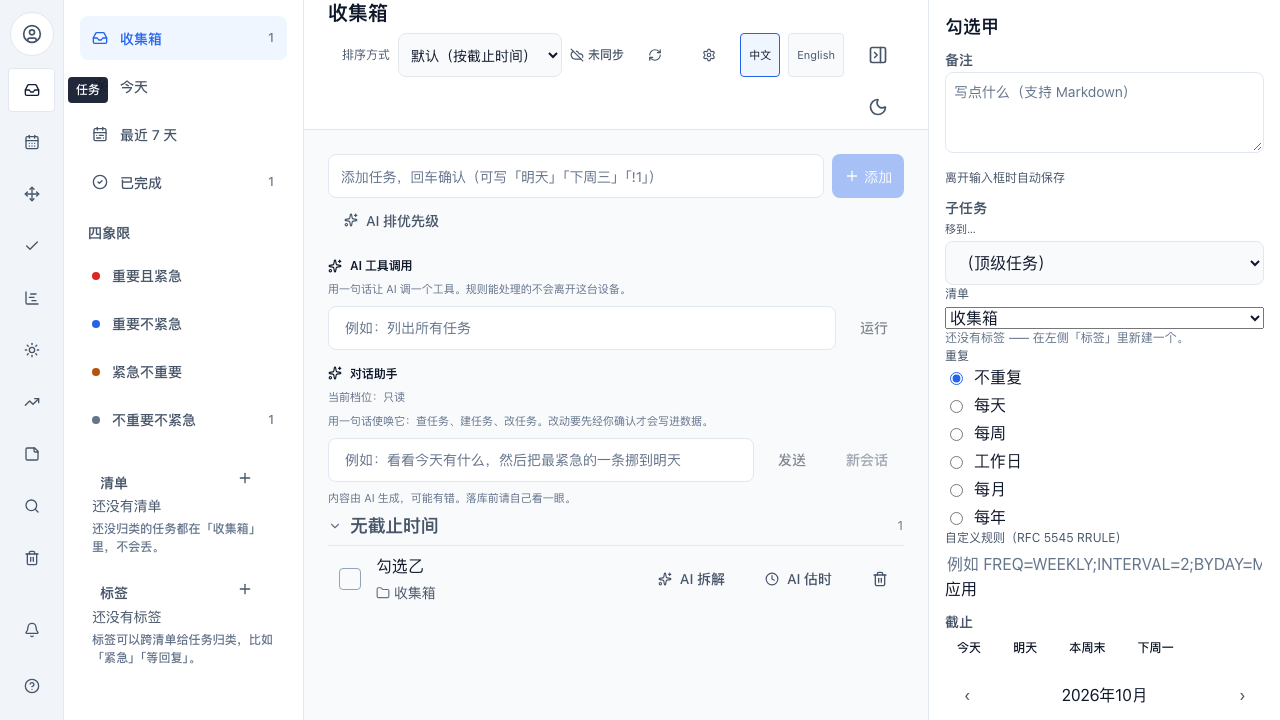
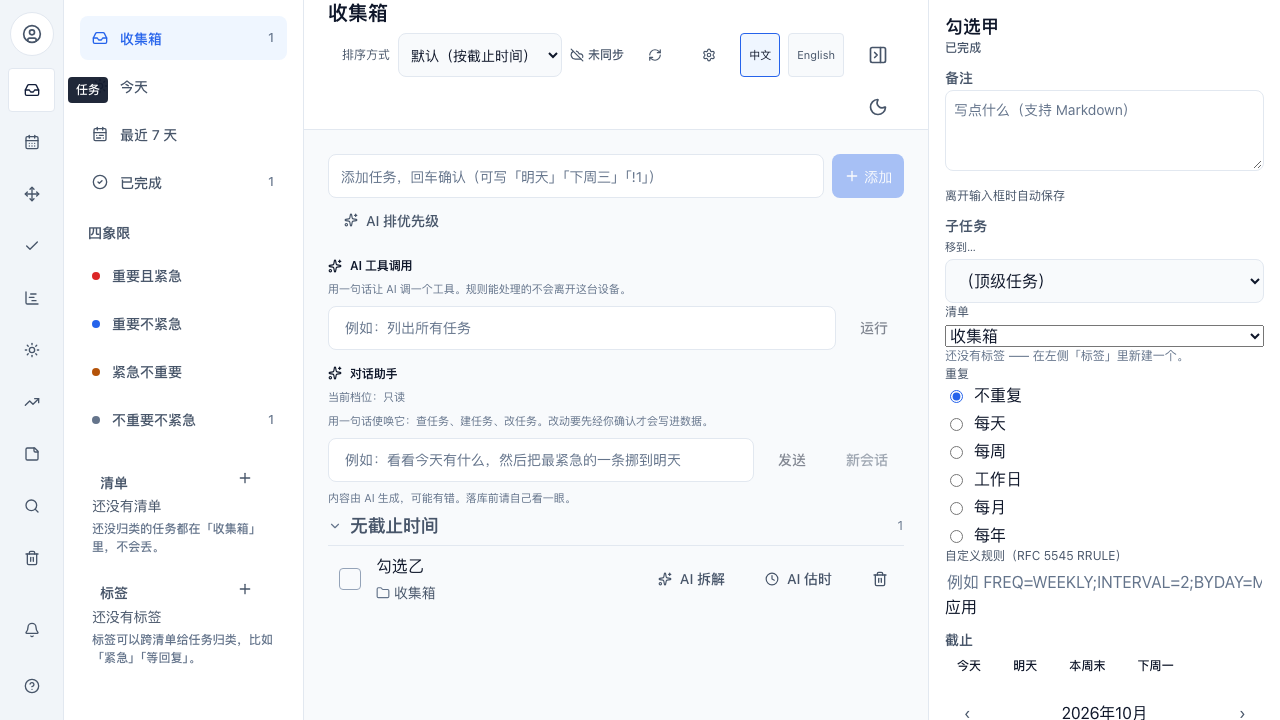
feat(§8.150): 完成的那条已离开列表，栏里那格现在自己写明「已完成」
§8.148 看图照出这一格读起来像"选中了一条看不见的任务"。当时我把它写成"要拍的是面单跟不跟着
可见集走"——现量之后那句话不成立：回落只认"实体还在不在"是**有判据的**（selection.spec.ts:170），
认可见集会让用户切一下筛选就把正在编辑的那条判成不存在、面板自己关掉。所以本单不动回落语义，
改为让那一格自己说清状态：completedAt 存在 ⇒ 标题下面一句只读的「已完成」。

⚠ 它不是第二颗编辑器（没有 onClick、不是 button）——完成态的编辑器仍是行尾那颗复选框。
第一版借用了区块头那一档（group-label），看图时它和「备注」「子任务」一模一样，会被读成
"一个叫已完成的区块"；改走辅助档 caption（xs + medium，三个属性都与区块头不同）。

判据 4 条 jsdom（36→40）+ K14 追加一句；臂台 Z1/Z2 两臂 RIG_RESULT=2/2、BACK_TO_CLEAN=true。
🔴 臂号第一版叫 S1/S2，与子任务那族撞号——`S1 S2` 一次匹配上四臂、红集是混的，而臂台不为撞号报错。
词条 task.pane.completed 中英各一条（2873 = 2873）。整条电池 36 步 ALL_GREEN。

diff --git a/apps/web/tests/task-detail-card.spec.tsx b/apps/web/tests/task-detail-card.spec.tsx
@@ -864,3 +864,59 @@ describe('清单 + 标签这一字段此刻归谁（§8.147）', () => {
     ).toBe(false);
   });
 });
+
+describe('完成态在栏里那句话（§8.150）', () => {
+  const paneBox = () => document.querySelector<HTMLElement>('[data-testid="task-pane"]');
+
+  it('🔴 勾选完成 ⇒ 栏里写明「已完成」（不是只让那一行从列表里消失）', async () => {
+    const id = await addTask('完成态甲');
+    selection.select('task', id);
+    mount();
+    await act(async () => {
+      await useTaskStore.getState().toggleComplete(id);
+    });
+    const box = paneBox();
+    if (box === null) throw new Error('栏里没画面单 ⇒ 这条判据在空转');
+    expect(box.textContent, '完成之后那一格不写状态，读起来像一条还没做的任务').toContain(
+      zhCN['task.pane.completed'],
+    );
+  });
+
+  it('没完成的那条不许出现那句话（这一格不许自己说完成）', async () => {
+    const id = await addTask('未态乙');
+    selection.select('task', id);
+    mount();
+    const box = paneBox();
+    if (box === null) throw new Error('栏里没画面单 ⇒ 这条判据在空转');
+    expect(box.textContent).not.toContain(zhCN['task.pane.completed']);
+  });
+
+  it('🔴 那句话**不是第二颗编辑器**：它不是按钮、也不套在按钮里', async () => {
+    const id = await addTask('编辑器归属丙');
+    selection.select('task', id);
+    mount();
+    await act(async () => {
+      await useTaskStore.getState().toggleComplete(id);
+    });
+    const status = document.querySelector<HTMLElement>('[data-testid="task-pane-status"]');
+    if (status === null) throw new Error('那句话没画出来 ⇒ 这一条在空转');
+    expect(status.tagName, '状态句长成了按钮 ⇒ 完成态有了第二个编辑器').not.toBe('BUTTON');
+    expect(status.closest('button'), '状态句被包进按钮 ⇒ 同一件事两颗编辑器').toBeNull();
+  });
+
+  it('🔴 那句话与区块头**不同档**（同档会被读成"一个叫已完成的区块"，看图照出来的）', async () => {
+    const id = await addTask('档位丁');
+    selection.select('task', id);
+    mount();
+    await act(async () => {
+      await useTaskStore.getState().toggleComplete(id);
+    });
+    const status = document.querySelector<HTMLElement>('[data-testid="task-pane-status"]');
+    const blockHeader = document.querySelector<HTMLElement>('[data-testid="task-pane"] h3');
+    if (status === null || blockHeader === null) {
+      throw new Error('状态句或区块头没画出来 ⇒ 这一条在空转');
+    }
+    expect(status.style.fontSize, '状态句与区块头同字号 ⇒ 层级塌了').not.toBe(blockHeader.style.fontSize);
+    expect(status.style.fontWeight, '状态句与区块头同字重 ⇒ 层级塌了').not.toBe(blockHeader.style.fontWeight);
+  });
+});

diff --git a/apps/web/src/features/tasks/TaskDetailCard.tsx b/apps/web/src/features/tasks/TaskDetailCard.tsx
@@ -65,6 +65,18 @@ const blockLabelStyle: CSSProperties = {
   marginBottom: cssVar('space.1'),
 };
 
+/*
+  🔴 完成态那一句**不能**借用 `blockLabelStyle`：看图时它和紧接其下的「备注」「子任务」
+  区块头一模一样（同档同色），用户读到的是"这里有一个叫『已完成』的区块"，
+  而不是"这条任务的状态"。所以它走辅助档（AGENTS §5：辅助/说明 = xs/sm + muted），
+  并且**不**带区块头那点上边距 —— 它属于标题，不属于下一个区块。
+*/
+const statusLineStyle: CSSProperties = {
+  ...text('caption'),
+  color: cssVar('color.foreground-muted'),
+  marginBottom: cssVar('space.1'),
+};
+
 /**
  * 详情列里的任务面单。
  *
@@ -107,6 +119,22 @@ export function TaskDetailCard(): React.JSX.Element | null {
       {/* `overflow-wrap` 在 `.ht-app__detail-task` 上给（它是可继承属性），
           所以这里不需要行内样式 —— 22rem 的一栏里一个长英文单词不许把栏撑破。 */}
       <h2 className="ht-app__detail-heading">{task.title}</h2>
+
+      {/*
+        🔴 完成态在栏里要有**一句只读的话**，不能只靠"列表里那行没了"来传达。
+        §8.148 边界 ② 看图照出来的形状：收集箱勾掉一条 ⇒ 行从这一列消失，而这一格继续画着它，
+        且和未完成时长得一模一样 —— 用户读到的是"选中了一条看不见的任务"。
+        为什么不是"把选中回落掉"：`packages/app-host/src/selection.ts:127-131` 那条红线
+        （判据钉在 `packages/app-host/tests/selection.spec.ts:170`）写明回落只认"实体还在不在"，
+        认"当前筛不筛得到"会让用户切一下筛选就把正在编辑的那条判成不存在、面板自己关掉。
+        ⚠ 这一行**不是第二颗编辑器**：完成态的编辑器仍是行尾那颗复选框（§8.138 那条不变量），
+        所以这里既没有 `onClick` 也不是 `button`，摘掉它只会让这一格少一句话、不会少一个入口。
+      */}
+      {task.completedAt !== undefined ? (
+        <p data-testid="task-pane-status" style={statusLineStyle}>
+          {t('task.pane.completed')}
+        </p>
+      ) : null}
 
       {/*
         区块头复用词条表里已有的那一句「备注」：占位符复用 composer 那句是同一个理由

diff --git a/e2e/tests/keyboard-cursor.spec.ts b/e2e/tests/keyboard-cursor.spec.ts
@@ -952,6 +952,15 @@ test.describe('键盘光标（↑↓ 移动选中）', () => {
     await expect(page.locator(ROWS).filter({ hasText: '勾选甲' })).toHaveCount(0);
     await expect(page.locator(ROWS).filter({ hasText: '勾选乙' })).toHaveCount(1);
 
+    /*
+      🔴 §8.150：差分证明了"行没了"，而这一格**还画着它** —— 所以那一格必须自己说清这条已完成，
+      否则用户读到的是"选中了一条看不见的任务"（§8.148 边界 ② 看图照出来的形状）。
+      ⚠ 这里**不**把选中回落掉：回落只认"实体还在不在"，认"当前筛不筛得到"会让用户切一下筛选
+      就把正在编辑的那条判成不存在、面板自己关掉（`packages/app-host/src/selection.ts:127-131`，
+      判据钉在 `packages/app-host/tests/selection.spec.ts:170`）。
+    */
+    await expect(page.getByTestId('task-pane-status'), '栏里那格没写明「已完成」').toHaveText('已完成');
+
     await page.screenshot({ path: SHOT('k14-space-toggles-from-keyboard') });
 
     await page.reload();

diff --git a/packages/i18n/src/locales/zh-CN.ts b/packages/i18n/src/locales/zh-CN.ts
@@ -3732,6 +3732,7 @@ export const zhCN = {
   //    这条对应关系由 `apps/web/src/features/reminders/*` 的宿主测试钉住
   //    （`packages/ui` 只跑纯 `model.ts` 单测，不挂渲染）。
   'reminder.title': '提醒',
+  'task.pane.completed': '已完成',
   'reminder.empty': '还没有提醒',
   'reminder.add': '添加提醒',
   'reminder.offset.0': '截止时',

diff --git a/packages/i18n/src/locales/en.ts b/packages/i18n/src/locales/en.ts
@@ -3495,6 +3495,7 @@ export const en = {
   //    `REMINDER_OFFSET_PRESETS_MS` — the shared component reads
   //    `labels.offsets[i]` for `presets[i]`.
   'reminder.title': 'Reminders',
+  'task.pane.completed': 'Completed',
   'reminder.empty': 'No reminders yet',
   'reminder.add': 'Add reminder',
   'reminder.offset.0': 'At due time',
